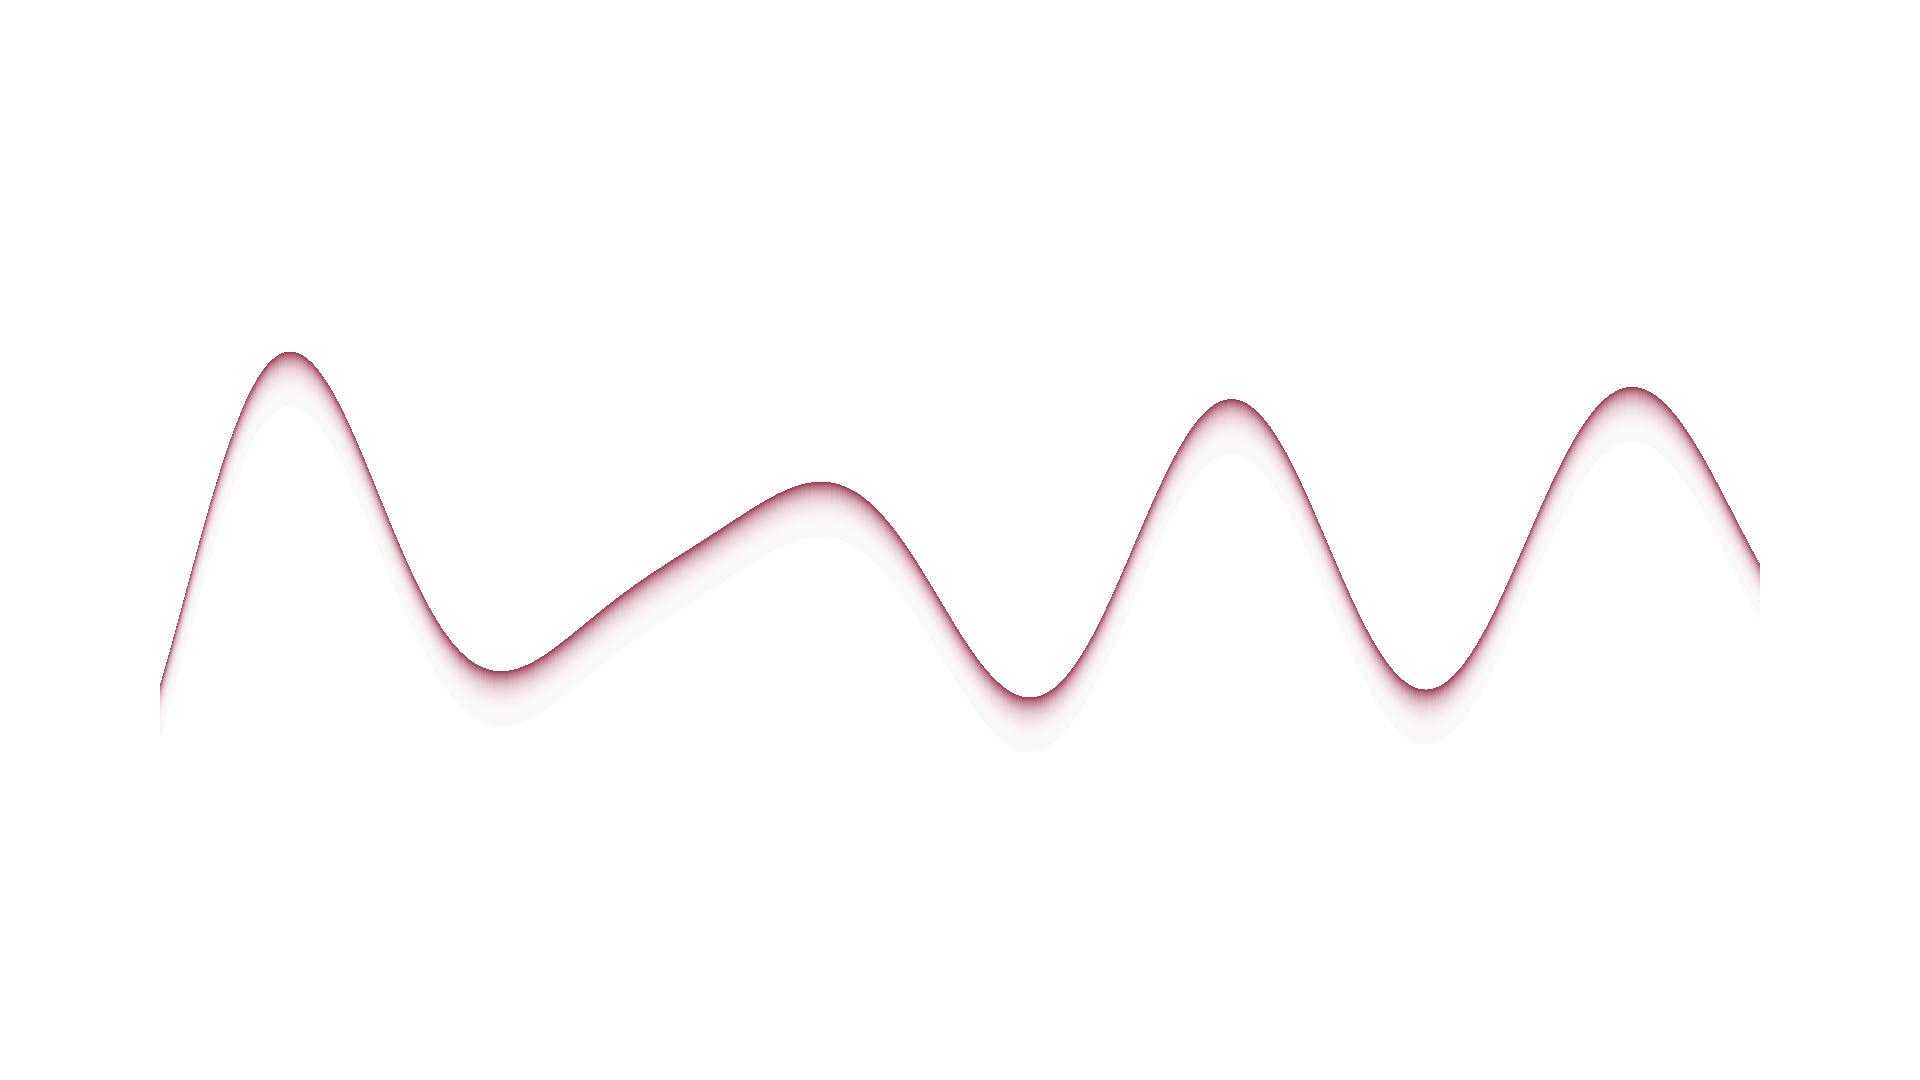
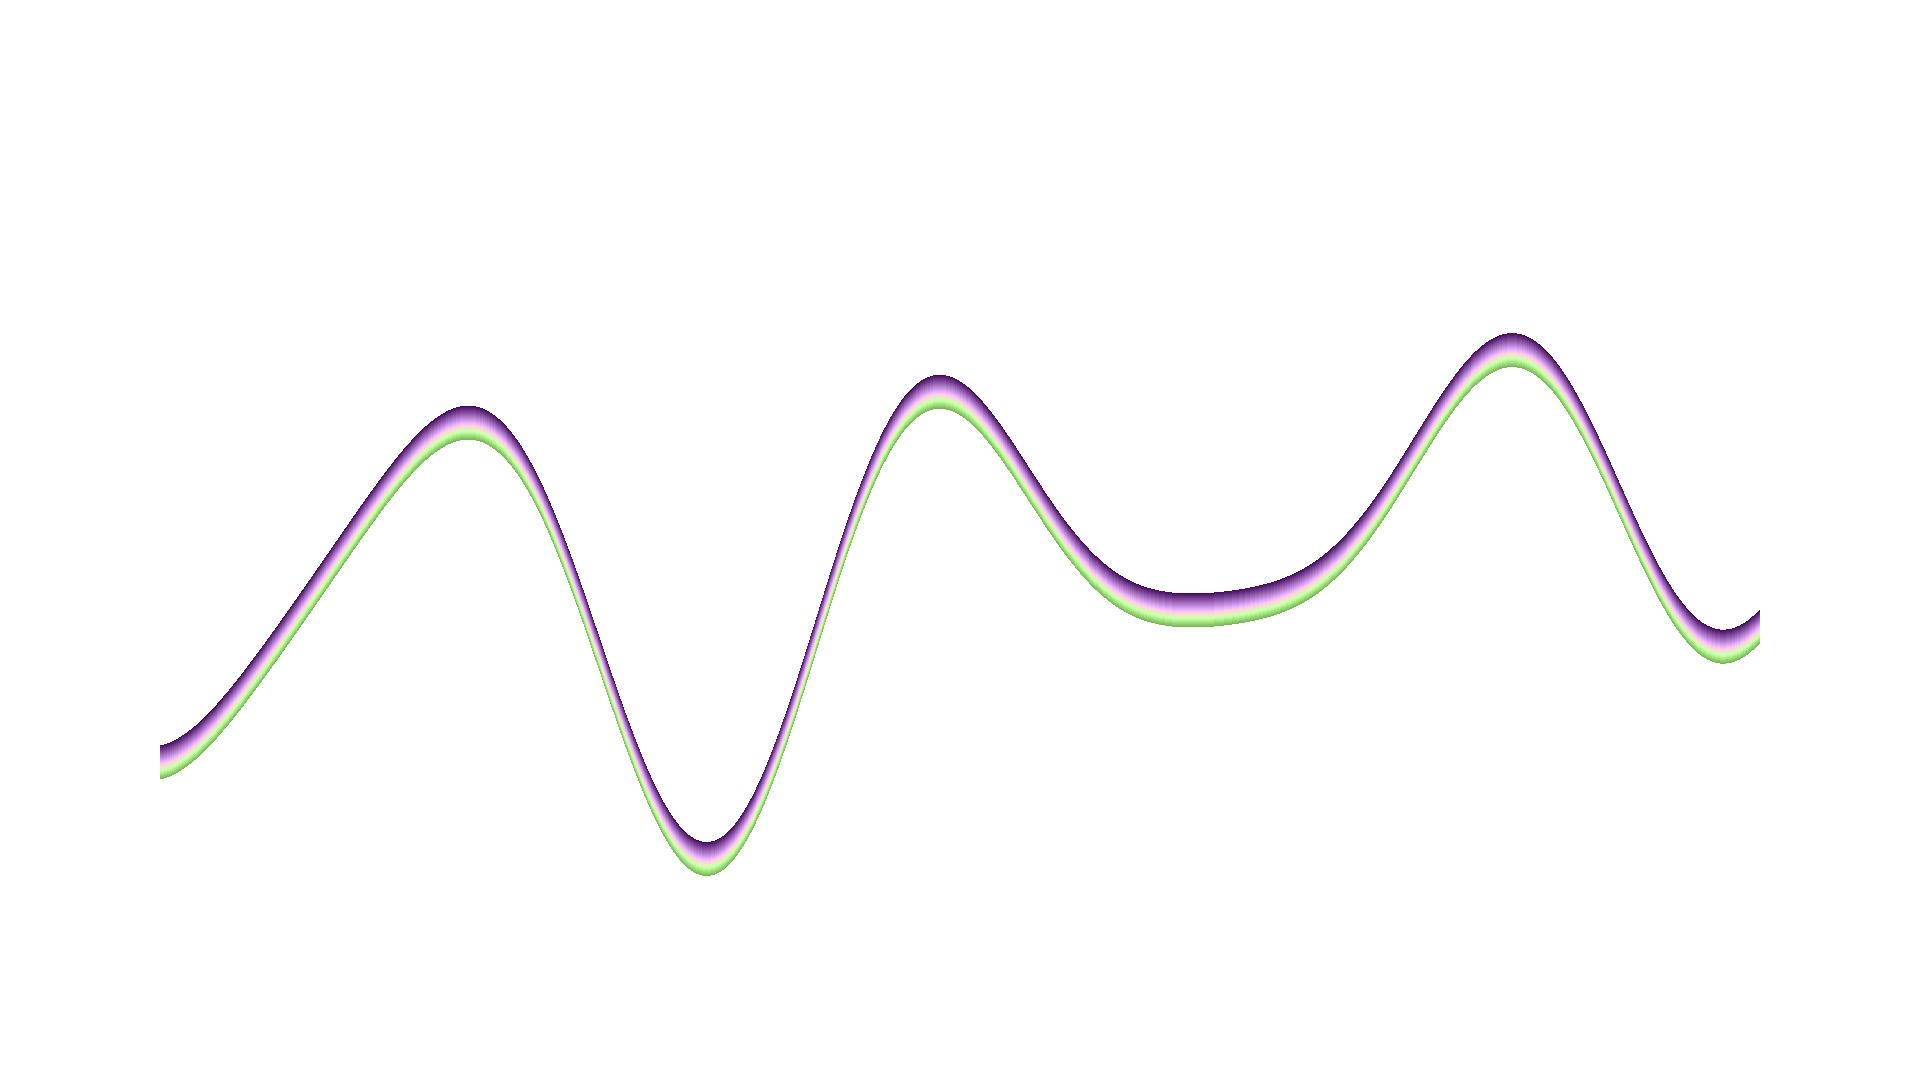
Minor improvements...

diff --git a/code/2022/gen_8.py b/code/2022/gen_8.py
@@ -2,6 +2,7 @@ import math
 import random as rd
 from PIL import Image as im
 from gen_util import GenUtil
+from gen_color import GenColor
 from gen_drawing_canvas import DCanvas
 
 ut = GenUtil()
@@ -13,7 +14,7 @@ class Gen8():
 					grading, speed):
 		self.hw = (active_height, active_width)
 		self.margins = margins
-		self.color = color
+		self.color = GenColor(color)
 		self.canvas = DCanvas(self.hw[1] + margins[1] * 2, self.hw[0] + margins[0] * 2, background)
 		self.signal = signal
 		self.signal_width = self.hw[1]
@@ -28,12 +29,12 @@ class Gen8():
 			for s in range(self.signal_width):
 				x = s + self.margins[1]
 				y = signal_h + self.get_signal_y(self.signal, self.signal_resolution * s) + self.margins[0]
-				self.canvas.draw_point(c, (x,y))
+				self.canvas.draw_point(self.color.c, (x,y))
 			signal_h += 1
 			if grading:
-				c = ut.color_grading(c, background, speed)
+				self.color.degrade(background, speed)
 			else:
-				c = ut.move_color(c, 15)
+				self.color.translate(10)
 
 	def get_signal_y(self, signal, angle):
 		y = 0
